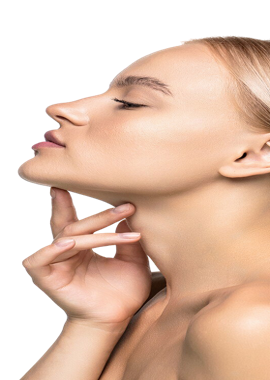
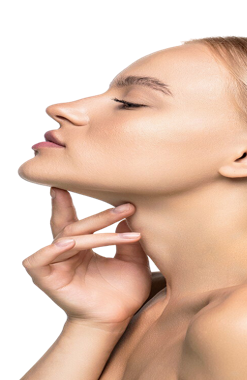
subindo

diff --git a/src/app/page.tsx b/src/app/page.tsx
@@ -61,13 +61,13 @@ export default function Home() {
           </div>
 
           {/* <div className="w-[279px] h-[317px]"> */}
-          {/* <Image
+          <Image
             className=""
             src={loiraCortada}
             width={279}
             height={317}
             alt=""
-          /> */}
+          />
           {/* </div> */}
         </div>
       </div>
